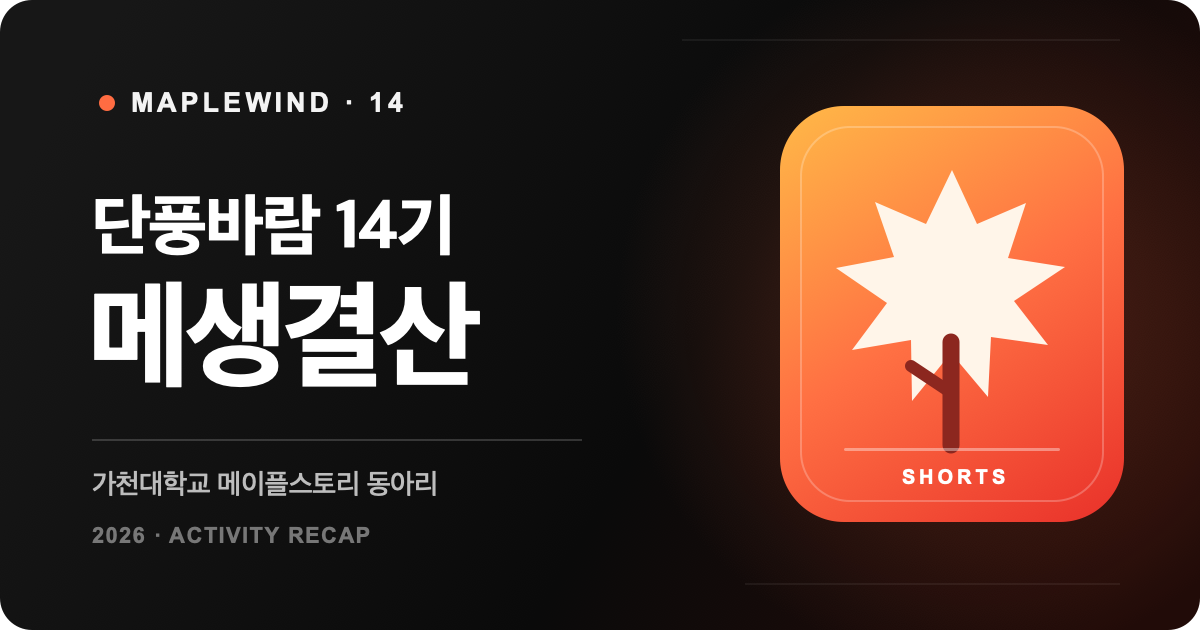
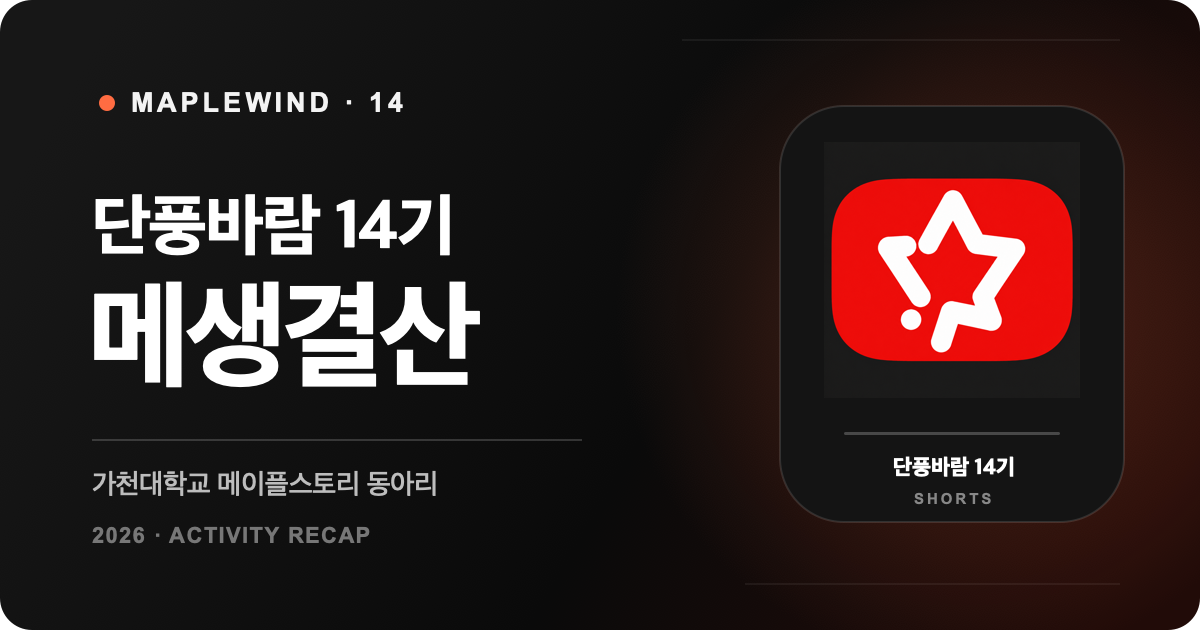
Use the real MapleWind mark in shared previews
Constraint: The prior thumbnail used an invented symbol instead of the product's actual icon.
Rejected: Generic YouTube logo | The site already has a distinct MapleWind video-style icon.
Confidence: high
Scope-risk: narrow
Directive: Keep shared visuals aligned with the app favicon.
Tested: npm run check; npm run build; rendered 1200x630 PNG inspection
Not-tested: Social crawler cache refresh

Changed region(s): [[0.6475, 0.1508, 0.9558, 0.8444]]

diff --git a/dpbr_front/app/src/app.html b/dpbr_front/app/src/app.html
@@ -29,8 +29,8 @@
 	<meta property="og:site_name" content="단풍바람" />
 	<meta property="og:title" content="단풍바람 14기 메생결산" />
 	<meta property="og:description" content="가천대학교 메이플스토리 동아리 단풍바람 14기 메생결산" />
-	<meta property="og:image" content="http://msgs14.maplewind.cloud/images/thumbnail.png?v=1" />
-	<meta property="og:image:secure_url" content="https://msgs14.maplewind.cloud/images/thumbnail.png?v=1" />
+	<meta property="og:image" content="http://msgs14.maplewind.cloud/images/thumbnail.png?v=2" />
+	<meta property="og:image:secure_url" content="https://msgs14.maplewind.cloud/images/thumbnail.png?v=2" />
 	<meta property="og:image:type" content="image/png" />
 	<meta property="og:image:width" content="1200" />
 	<meta property="og:image:height" content="630" />
@@ -39,7 +39,7 @@
 	<meta name="twitter:card" content="summary_large_image" />
 	<meta name="twitter:title" content="단풍바람 14기 메생결산" />
 	<meta name="twitter:description" content="가천대학교 메이플스토리 동아리 단풍바람 14기 메생결산" />
-	<meta name="twitter:image" content="http://msgs14.maplewind.cloud/images/thumbnail.png?v=1" />
+	<meta name="twitter:image" content="http://msgs14.maplewind.cloud/images/thumbnail.png?v=2" />
 	<meta name="twitter:image:alt" content="단풍바람 14기 메생결산" />
 
 	%sveltekit.head%
